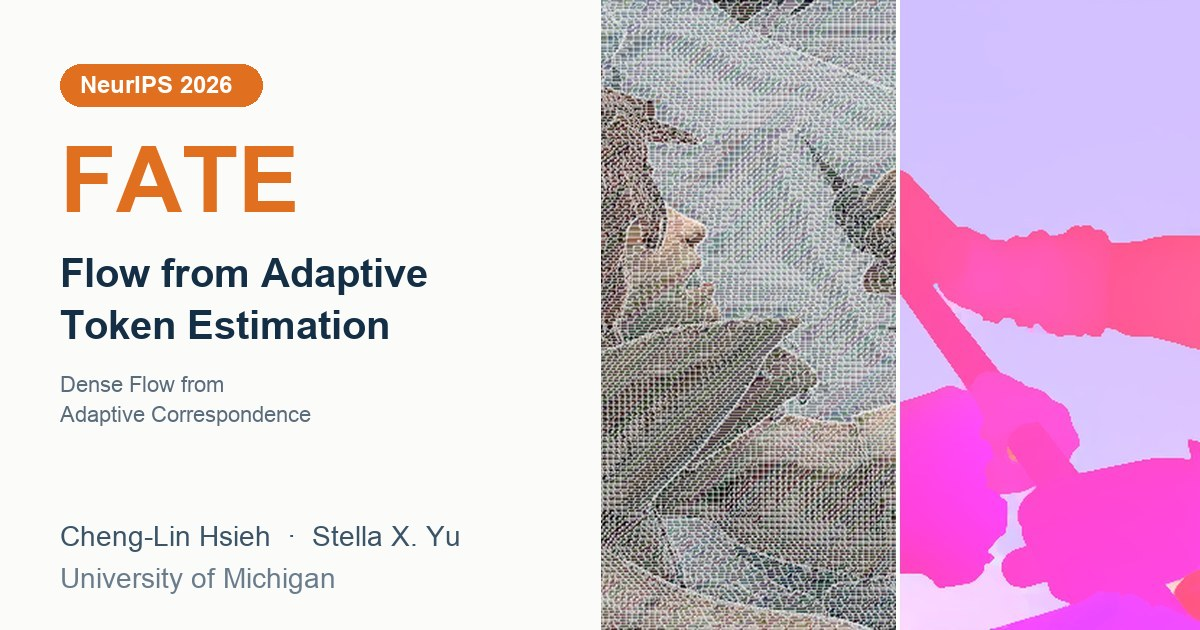
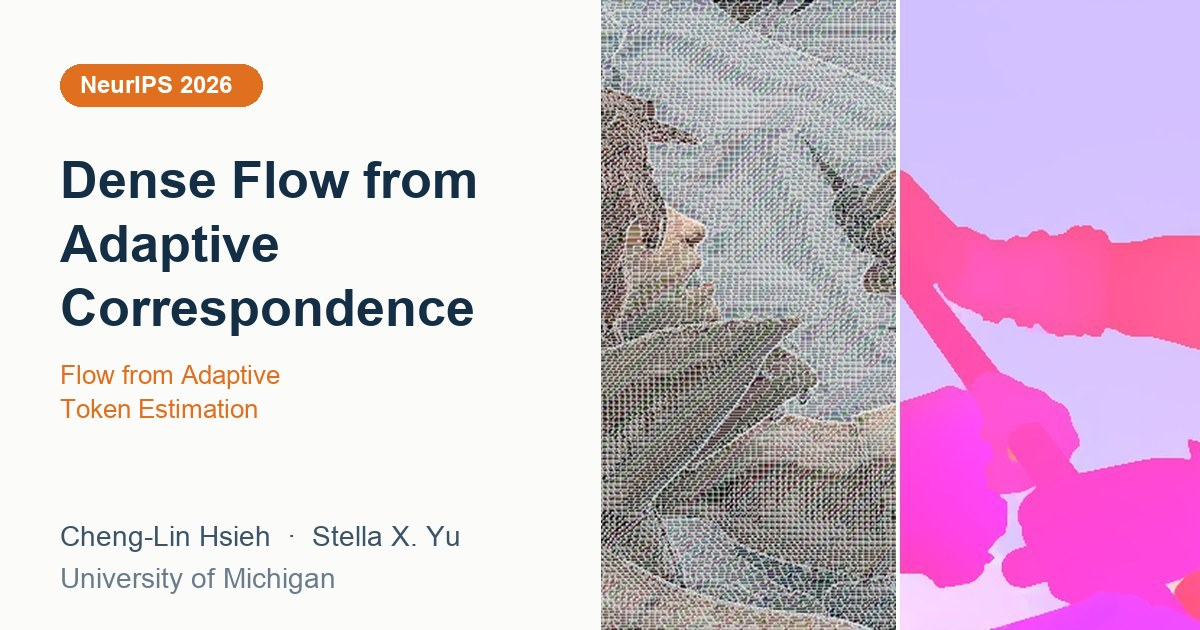
Put the paper title first on the project page.

Changed region(s): [[0.0308, 0.2111, 0.4008, 0.5429], [0.0308, 0.573, 0.2467, 0.6937]]

diff --git a/index.html b/index.html
@@ -3,18 +3,18 @@
 <head>
   <meta charset="utf-8">
   <meta name="viewport" content="width=device-width, initial-scale=1">
-  <title>FATE: Flow from Adaptive Token Estimation (NeurIPS 2026)</title>
+  <title>FATE: Dense Flow from Adaptive Correspondence (NeurIPS 2026)</title>
   <meta name="description" content="FATE learns adaptive correspondence tokens whose supports expand within coherent regions and contract near motion boundaries, then reconstructs precise pixel flow. State-of-the-art zero-shot accuracy on Sintel Final and KITTI.">
   <meta name="author" content="Cheng-Lin Hsieh, Stella X. Yu">
   <meta property="og:type" content="website">
-  <meta property="og:title" content="FATE: Flow from Adaptive Token Estimation">
+  <meta property="og:title" content="Dense Flow from Adaptive Correspondence">
   <meta property="og:description" content="Adaptive correspondence tokens for dense optical flow. NeurIPS 2026.">
   <meta property="og:url" content="https://chenglinh.github.io/FATE/">
   <meta property="og:image" content="https://chenglinh.github.io/FATE/static/img/social.jpg">
   <meta property="og:image:width" content="1200">
   <meta property="og:image:height" content="630">
   <meta name="twitter:card" content="summary_large_image">
-  <meta name="twitter:title" content="FATE: Flow from Adaptive Token Estimation">
+  <meta name="twitter:title" content="Dense Flow from Adaptive Correspondence">
   <meta name="twitter:description" content="Adaptive correspondence tokens for dense optical flow. NeurIPS 2026.">
   <meta name="twitter:image" content="https://chenglinh.github.io/FATE/static/img/social.jpg">
   <link rel="icon" href="static/favicon.svg" type="image/svg+xml">
@@ -42,8 +42,8 @@
 <header class="hero" id="top">
   <div class="wrap">
     <div class="venue">NeurIPS 2026</div>
-    <h1><span class="ac">F</span>low from <span class="ac">A</span>daptive <span class="ac">T</span>oken <span class="ac">E</span>stimation</h1>
-    <p class="paper-title">Dense Flow from Adaptive Correspondence</p>
+    <h1>Dense Flow from Adaptive Correspondence</h1>
+    <p class="paper-title">Flow from Adaptive Token Estimation</p>
     <p class="authors">
       <a href="https://chenglinh.github.io/">Cheng-Lin Hsieh</a>
       <span class="sep">&middot;</span>

diff --git a/static/css/style.css b/static/css/style.css
@@ -134,7 +134,7 @@ b, strong { font-weight: 650; }
   letter-spacing: -.022em; margin: 0 auto 20px; max-width: 900px;
 }
 .hero h1 .ac { color: var(--dace); }
-.paper-title { font-family: var(--serif); font-size: 1.35rem; color: var(--ink-2); margin: -6px auto 18px; }
+.paper-title { font-family: var(--sans); font-weight: 600; font-size: 1.15rem; color: var(--dace); margin: -8px auto 18px; }
 .authors { font-size: 1.2rem; margin: 0; }
 .authors a { color: var(--ink); border-bottom: 1px solid var(--line-2); }
 .authors a:hover { text-decoration: none; border-bottom-color: var(--dace); color: var(--link); }
